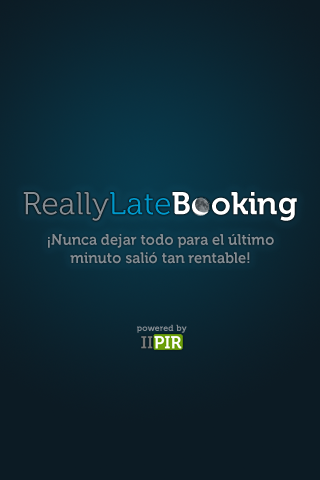
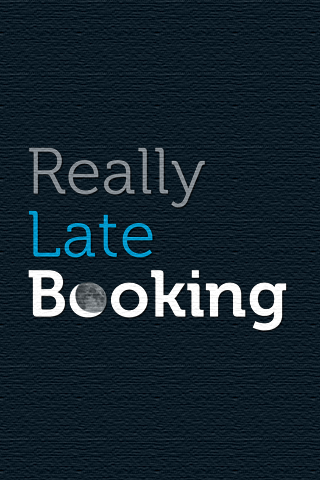
last commit before 1.017 ended

diff --git a/js/mainCtrl.js b/js/mainCtrl.js
@@ -1,6 +1,7 @@
 (function() {
-  root.url = 'http://10.rlb-back.appspot.com';
-  root.surl = 'https://10.rlb-back.appspot.com';
+  var startupAnimation, startupView, startupWindow;
+  root.url = 'http://rlb-back.appspot.com';
+  root.surl = 'https://rlb-back.appspot.com';
   root.bgGradient = {
     type: 'linear',
     colors: [
@@ -13,6 +14,32 @@
       }
     ]
   };
+  startupWindow = Ti.UI.createWindow({
+    height: "100%",
+    width: "100%",
+    backgroundColor: '#000',
+    navBarHidden: true,
+    zIndex: 1
+  });
+  startupView = Titanium.UI.createImageView({
+    image: 'images/Default.png',
+    top: -20.0
+  });
+  startupAnimation = Titanium.UI.createAnimation({
+    curve: Ti.UI.ANIMATION_CURVE_EASE_IN_OUT,
+    opacity: 0,
+    duration: 3000
+  });
+  startupWindow.add(startupView);
+  startupWindow.open({
+    navBarHidden: false
+  });
+  startupView.animate(startupAnimation);
+  startupAnimation.addEventListener('complete', function(e) {
+    root.tabGroup.open();
+    startupWindow.close();
+    return root.showCities();
+  });
   Ti.include('/js/dateUtil.js', '/js/GenericWindow.js', '/js/GenericSeparatorView.js', '/js/Generic2RowsView.js', '/js/GenericRowView.js', '/js/GenericTextRow.js', '/js/GenericButton.js', '/js/GenericMapAnnotation.js', '/js/GenericTextView.js', '/js/GenericMapRightButtonView.js', '/js/GenericAndroidTab.js', '/js/errorView.js', '/js/loadingView.js', '/js/application.js', '/js/listDealsWindow.js', '/js/accountWindow.js', '/js/bookingsWindow.js', '/js/citiesWindow.js', '/js/oneDealView.js', '/js/oneBookingView.js', '/js/optionsView.js', '/js/bookingView.js', '/js/aboutView.js', '/js/forHotelsView.js', '/js/termsView.js', '/js/privacyView.js');
   Ti.API.info("Empieza");
   if (Titanium.App.Properties.hasProperty("user")) {
@@ -32,7 +59,6 @@
     Titanium.App.Properties.removeProperty("user");
     Titanium.App.Properties.removeProperty("facebookUser");
   }
-  root.showCities();
   root.urlSignature = function(url) {
     var timestamp, token;
     timestamp = new Date().getTime();

diff --git a/js/bookingAction.js b/js/bookingAction.js
@@ -5,7 +5,14 @@
     Ti.API.info(this.responseText);
     Ti.API.info('_____________________ ENTRA EN COMPRA CON EXITO ********************');
     root.hideLoading(root.confirmBookingWindow);
-    response = JSON.parse(this.responseText);
+    try {
+      response = JSON.parse(this.responseText);
+    } catch (error) {
+      Ti.UI.createAlertDialog({
+        title: 'ReallyLateBooking',
+        message: L('errorBooking')
+      }).show();
+    }
     Ti.API.info(response);
     if (response.status === 201) {
       Ti.API.error('Paso 2');
@@ -26,7 +33,7 @@
     } else {
       return Ti.UI.createAlertDialog({
         title: 'ReallyLateBooking',
-        message: 'Error: ' + response.detail
+        message: L('errorBooking')
       }).show();
     }
   };
@@ -49,7 +56,7 @@
     newBook = JSON.stringify({
       "userId": root.user.id,
       "dealId": root.deal.id,
-      "nights": root.extraNights,
+      "nights": root.bookingNights,
       "creditCardType": root.cardTypeLabel.text,
       "creditCard": root.cardNumberText.value,
       "creditCardName": root.cardNameText.value,

diff --git a/js/loginAction.js b/js/loginAction.js
@@ -2,19 +2,27 @@
   root.xhrLogin = Titanium.Network.createHTTPClient();
   root.xhrLogin.onload = function(e) {
     var login;
-    login = JSON.parse(this.responseText);
+    try {
+      login = JSON.parse(this.responseText);
+    } catch (error) {
+      Ti.UI.createAlertDialog({
+        title: 'ReallyLateBooking',
+        message: L('errorHappened') + '\n' + error
+      }).show();
+    }
     if (login.status === 200) {
       root.user = login.content;
       Titanium.App.Properties.setString("user", JSON.stringify(root.user));
       root.loginView.hide();
       root.loggedView.show();
-      return root.loadLoggedUser();
+      root.loadLoggedUser();
     } else {
-      return Ti.UI.createAlertDialog({
+      Ti.UI.createAlertDialog({
         title: 'ReallyLateBooking',
         message: 'Error: ' + login.detail
       }).show();
     }
+    return root.hideLoading(root.accountWindow);
   };
   root.xhrLogin.onerror = function(e) {
     root.showError();

diff --git a/js/ListDealsRow.js b/js/ListDealsRow.js
@@ -8,6 +8,7 @@
         rightImage: '/images/blue_arrow.png',
         identionLevel: 200,
         height: 120,
+        selectionStyle: 'none',
         backgroundGradient: {
           type: 'linear',
           colors: [
@@ -96,7 +97,7 @@
       });
       this.row.add(sepVertView);
       tonightLabel = Titanium.UI.createLabel({
-        text: "Tonight",
+        text: L('tonight'),
         color: '#fff',
         left: 155,
         borderWidth: 0,
@@ -141,6 +142,8 @@
         height: 25,
         borderRadius: 5,
         backgroundColor: '#0098cb',
+        backGroundSelectedColor: 'red',
+        highlightedColor: '#fff',
         text: deal.roomTypeText,
         textAlign: "center",
         font: {

diff --git a/js/citiesTable.js b/js/citiesTable.js
@@ -13,8 +13,10 @@
   });
   root.citiesWindow.add(root.citiesTable);
   root.citiesTable.addEventListener('click', function(e) {
-    root.showLoading(root.citiesWindow);
-    return root.loadDeals(e.row.city);
+    if (e.row.city !== void 0) {
+      root.showLoading(root.citiesWindow);
+      return root.loadDeals(e.row.city);
+    }
   });
   root.xhrCities = Titanium.Network.createHTTPClient();
   root.xhrCities.onload = function() {
@@ -23,6 +25,7 @@
     cities = JSON.parse(this.responseText);
     data = [];
     textRow = new root.GenericTextRow().row;
+    textRow.rightImage = '';
     textRow.backgroundGradient = {
       type: 'linear',
       colors: [

diff --git a/js/bookingView.js b/js/bookingView.js
@@ -9,7 +9,7 @@
   root.confirmTable = Titanium.UI.createTableView({
     backgroundColor: '#0d1e28',
     separatorColor: '#1b3c50',
-    top: 70,
+    top: 80,
     height: 180,
     scrollable: false,
     moving: false
@@ -68,8 +68,8 @@
       fontWeight: 'bold'
     }
   });
-  separator1 = new root.GenericSeparatorView(70).view;
-  separator2 = new root.GenericSeparatorView(249).view;
+  separator1 = new root.GenericSeparatorView(80).view;
+  separator2 = new root.GenericSeparatorView(259).view;
   userRow = new root.GenericTextRow().row;
   userRow.rightImage = '/images/blue_arrow.png';
   userRow.height = 60;

diff --git a/js/application.js b/js/application.js
@@ -53,10 +53,9 @@
   root.tabGroup.addTab(root.bookingTab);
   root.tabGroup.addTab(root.accountTab);
   root.tabGroup.addTab(root.optionsTab);
-  root.tabGroup.open();
   root.showError = function(window) {
-    Ti.API.info("Entra en showError2");
-    root.errorWindow = window;
+    Ti.API.info("Entra en root.showError");
+    root.errorWindow = new root.GenericWindow('Error').win;
     return window.add(root.errorView);
   };
 }).call(this);

diff --git a/js/oneBookingView.js b/js/oneBookingView.js
@@ -9,6 +9,7 @@
   root.showOneBookingView = function(booking) {
     var text, title;
     this.booking = booking;
+    Ti.API.error(booking);
     title = L('booking') + ' : ' + booking.code;
     text = L('hotel') + ': ' + booking.hotelName + '\n' + L('bookingDate') + ': ' + booking.checkinDate + '\n\n';
     text = text + L('salePrice') + ': ' + booking.salePriceCents + '€ ' + L('regularPrice') + ': ' + booking.priceCents + ' € \n\n\n';

diff --git a/js/oneDealView.js b/js/oneDealView.js
@@ -51,7 +51,7 @@
   });
   addressView.add(root.oneDealAddressLabel);
   root.descriptionLabel = Titanium.UI.createLabel({
-    height: '100%',
+    height: 75,
     textAlign: 'left',
     color: '#fff',
     font: {
@@ -59,7 +59,7 @@
       fontWeight: 'normal',
       fontFamily: 'Helvetica Neue'
     },
-    top: 6,
+    top: 0,
     left: 20,
     right: 5
   });

diff --git a/js/listDealsWindow.js b/js/listDealsWindow.js
@@ -1,3 +1,3 @@
 (function() {
-  Ti.include('/js/why3View.js', '/js/ListDealsRow.js', '/js/listDealsMapView.js', '/js/listDealsTable.js', '/js/noDealsView.js');
+  Ti.include('/js/why3View.js', '/js/ListDealsRow.js', '/js/listDealsMapView.js', '/js/listDealsTable.js', '/js/pullRefresh.js', '/js/noDealsView.js');
 }).call(this);

diff --git a/js/loginTable.js b/js/loginTable.js
@@ -40,6 +40,7 @@
     validate = root.validateLoginData(email, password);
     if (validate === true) {
       password = Titanium.Utils.md5HexDigest(password);
+      root.showLoading(root.accountWindow);
       return root.doLogin(email, password);
     } else {
       return Ti.UI.createAlertDialog({

diff --git a/js/GenericTextRow.js b/js/GenericTextRow.js
@@ -5,6 +5,7 @@
       this.row = Ti.UI.createTableViewRow({
         hasChild: false,
         identionLevel: 10,
+        selectionStyle: 'none',
         height: 'auto',
         color: '#fff',
         backgroundGradient: {
